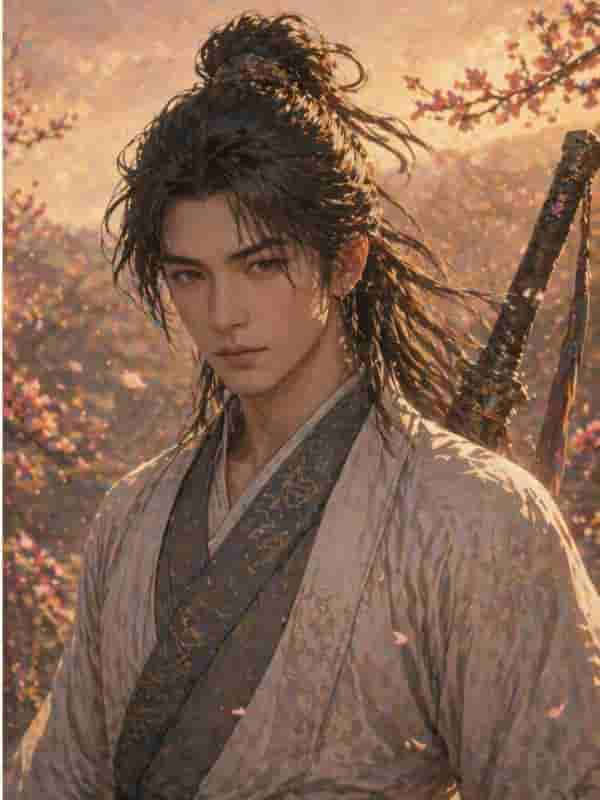
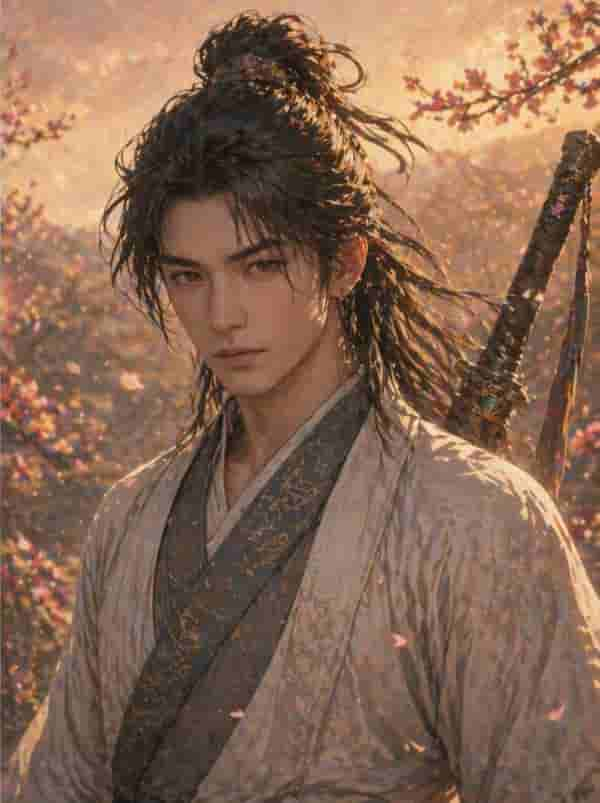
refactor: recompress player and li-yunshu portraits from updated PNGs
Bump to v0.22.11 to invalidate SW cache and serve new portraits.

diff --git a/index.html b/index.html
@@ -4,7 +4,7 @@
     <meta charset="UTF-8">
     <meta name="viewport" content="width=device-width, initial-scale=1.0, maximum-scale=1.0">
     <title>轮回江湖</title>
-    <link rel="stylesheet" href="css/styles.css?v=0.22.10">
+    <link rel="stylesheet" href="css/styles.css?v=0.22.11">
 </head>
 <body>
 
@@ -203,14 +203,14 @@ if (localStorage.getItem('wuxia_save')) {
         <div class="loading-text">读取存档中</div>`;
 }
 </script>
-<script src="js/audio.js?v=0.22.10"></script>
-<script src="js/character.js?v=0.22.10"></script>
-<script src="js/npc.js?v=0.22.10"></script>
-<script src="js/combat.js?v=0.22.10"></script>
-<script src="js/rebirth.js?v=0.22.10"></script>
-<script src="js/engine.js?v=0.22.10"></script>
-<script src="js/gallery.js?v=0.22.10"></script>
-<script src="js/ui.js?v=0.22.10"></script>
+<script src="js/audio.js?v=0.22.11"></script>
+<script src="js/character.js?v=0.22.11"></script>
+<script src="js/npc.js?v=0.22.11"></script>
+<script src="js/combat.js?v=0.22.11"></script>
+<script src="js/rebirth.js?v=0.22.11"></script>
+<script src="js/engine.js?v=0.22.11"></script>
+<script src="js/gallery.js?v=0.22.11"></script>
+<script src="js/ui.js?v=0.22.11"></script>
 <script>
 (async function() {
     await Engine.init();

diff --git a/sw.js b/sw.js
@@ -1,6 +1,6 @@
 // Service worker: cache-first for all image assets
 // Bump CACHE_NAME when images are updated to force re-download
-const CACHE_NAME = 'wuxia-v0.22.10';
+const CACHE_NAME = 'wuxia-v0.22.11';
 
 // Install: activate immediately without blocking on image downloads
 // Images are cached lazily on first access via the fetch handler below

diff --git a/PROGRESS.md b/PROGRESS.md
@@ -1,6 +1,15 @@
 # 轮回江湖 — 开发进度
 
-## 当前版本：v0.22.10
+## 当前版本：v0.22.11
+
+---
+
+### v0.22.11（2026-04-26）
+
+**立绘更新**
+- 更新主角立绘（player portrait）
+- 更新李云舒立绘（li-yunshu portrait）
+- 版本号升级强制刷新 Service Worker 缓存
 
 ---
 

diff --git a/README.md b/README.md
@@ -1,4 +1,4 @@
-# 轮回江湖（开发中）v0.22.10
+# 轮回江湖（开发中）v0.22.11
 
 > 武侠风世界线回溯类文字冒险游戏 · 纯 HTML/CSS/JS · GitHub Pages 可直接部署
 
